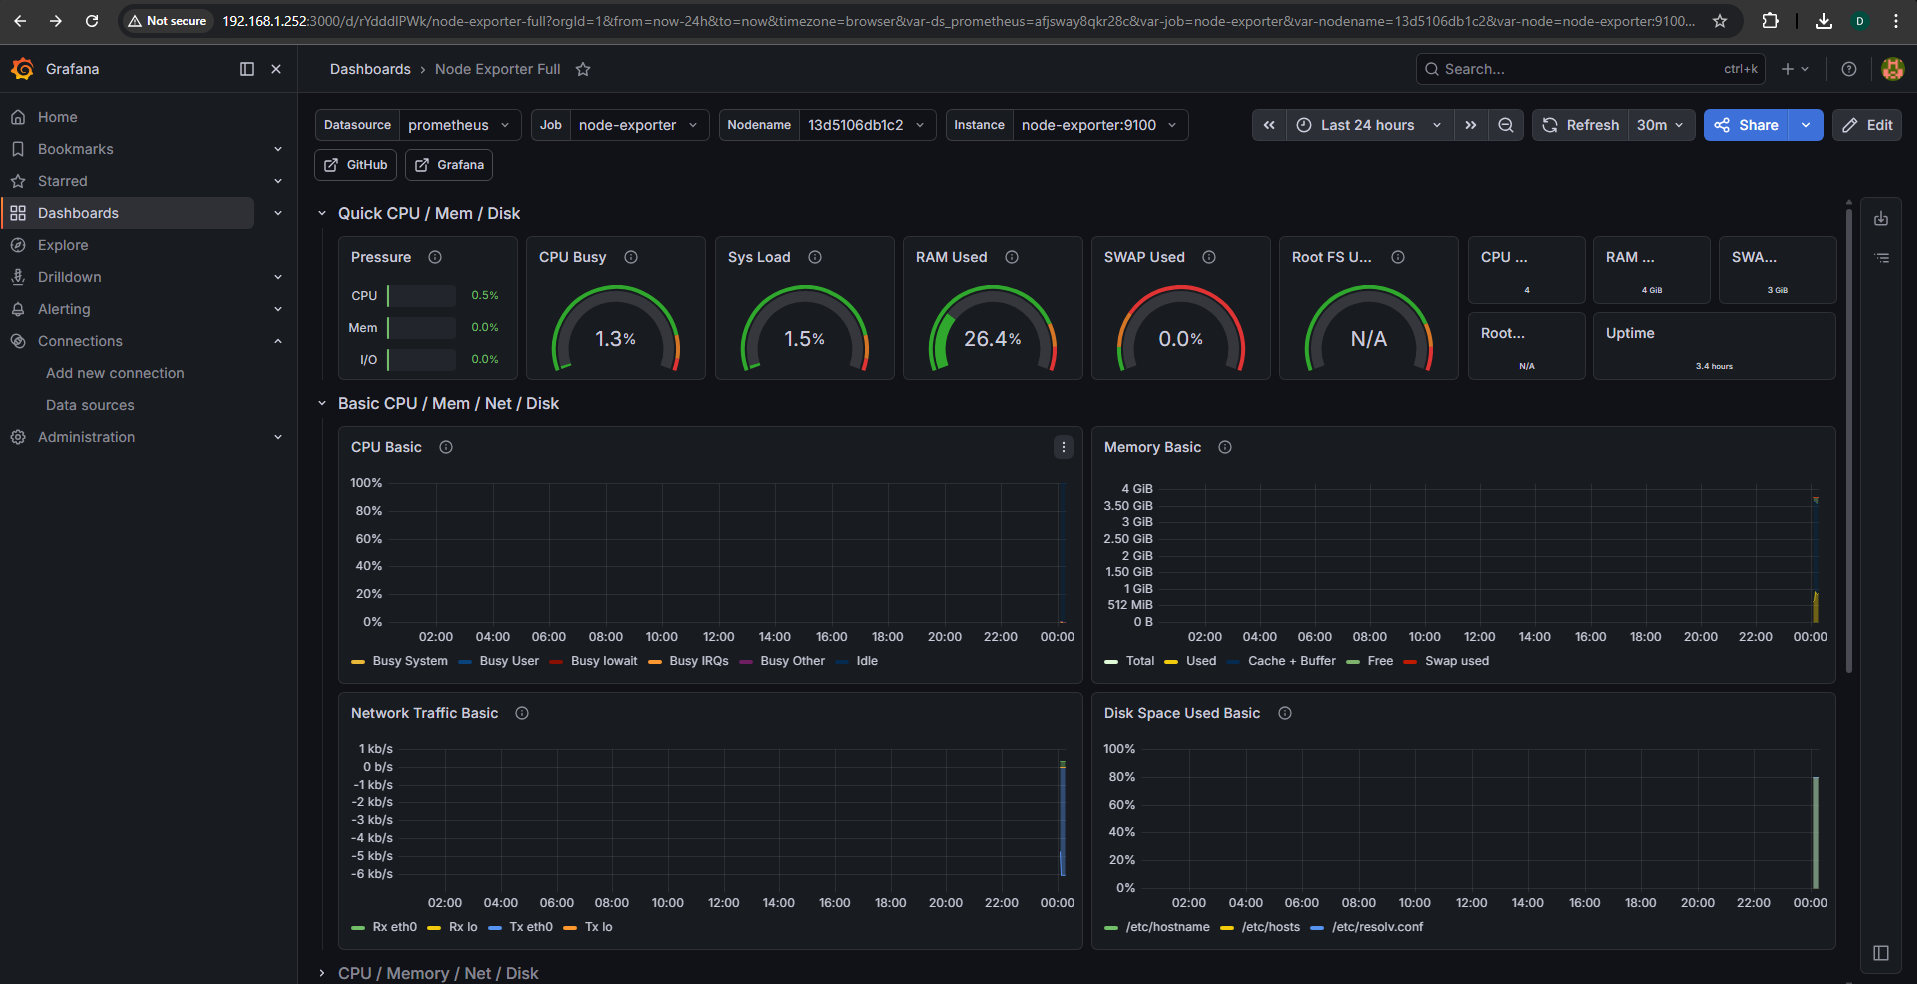
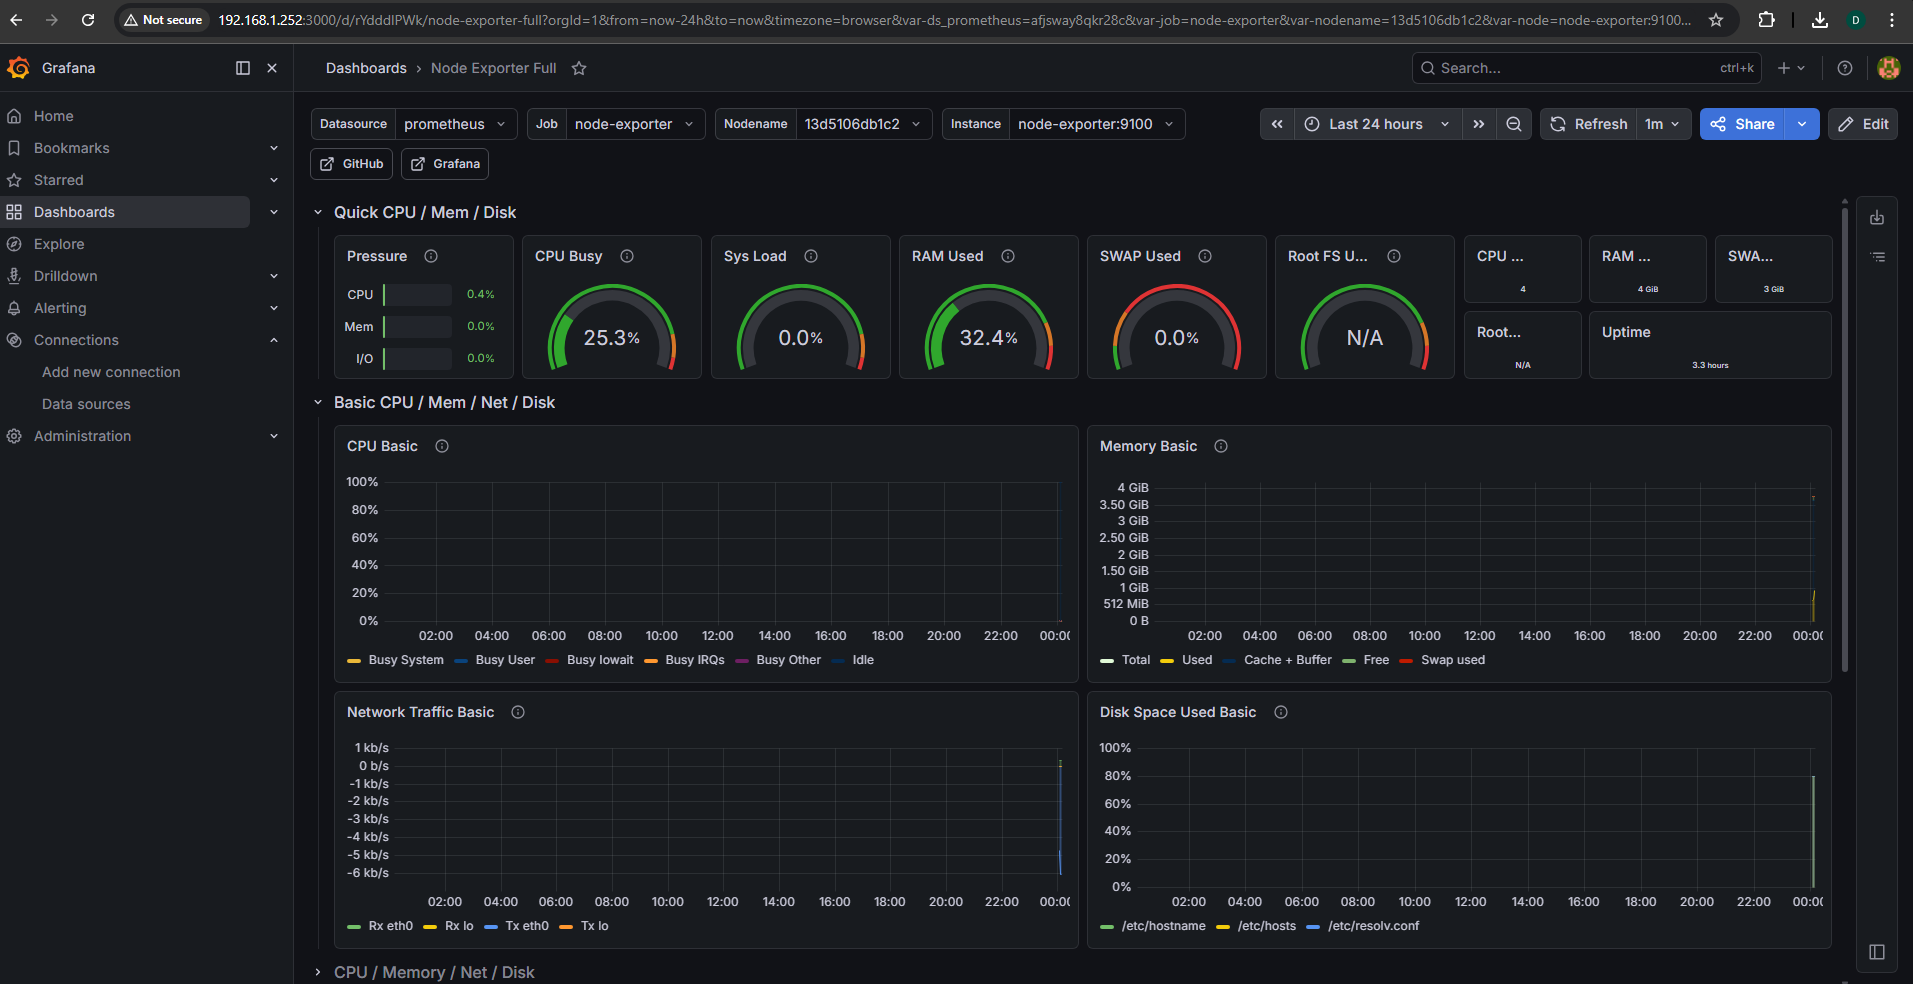
docs: expansão do relatório técnico - imagens e texto

diff --git a/relatorio/chapters/cap03.tex b/relatorio/chapters/cap03.tex
@@ -5,7 +5,23 @@ Com base no guião do projeto proposto, o objetivo central consiste na criação
 
 \section{Serviços de Rede a Disponibilizar}
 
-A infraestrutura deve contemplar um conjunto de serviços típicos de uma rede de pequena/média dimensão. A Tabela \ref{tab:servicos} apresenta os serviços a implementar, a ferramenta escolhida para cada um e a justificação técnica da escolha.
+A infraestrutura deve contemplar um conjunto de serviços típicos de uma rede de pequena/média dimensão.
+
+De forma mais detalhada, os requisitos funcionais de cada serviço são os seguintes:
+
+\begin{itemize}
+    \item \textbf{Servidor DNS:} Resolução de nomes para os hosts e serviços da rede interna; funcionamento em modo recursivo (reencaminhamento para servidores \textit{upstream} públicos para domínios externos); interface de administração acessível por HTTP.
+
+    \item \textbf{\textit{Reverse Proxy} HTTPS:} Ponto de entrada único na rede; encaminhamento de pedidos HTTP/HTTPS para os serviços internos corretos com base no nome de domínio ou no caminho do pedido; terminação TLS centralizada.
+
+    \item \textbf{Servidor Web:} Disponibilização de uma página de estado da infraestrutura, servida através do Nginx com conteúdo injetado por volume Docker.
+
+    \item \textbf{VPN (WireGuard):} Acesso remoto seguro à rede interna de \textit{containers} a partir de dispositivos externos (computador portátil e telemóvel); criação automática de perfis de cliente (QR codes para configuração no telemóvel).
+
+    \item \textbf{Monitorização:} Recolha contínua de métricas de \textit{hardware} do servidor \textit{host} (CPU, RAM, I/O de disco, interfaces de rede); armazenamento em base de dados de séries temporais; visualização em painéis interativos.
+\end{itemize}
+
+A Tabela \ref{tab:servicos} apresenta os serviços a implementar, a ferramenta escolhida para cada um e a justificação técnica da escolha.
 
 \begin{table}[h!]
 \centering
@@ -30,20 +46,6 @@ Visualização & Grafana & Compatibilidade nativa com Prometheus; painéis pré-
 \end{tabulary}
 \end{table}
 
-De forma mais detalhada, os requisitos funcionais de cada serviço são os seguintes:
-
-\begin{itemize}
-    \item \textbf{Servidor DNS:} Resolução de nomes para os hosts e serviços da rede interna; funcionamento em modo recursivo (reencaminhamento para servidores \textit{upstream} públicos para domínios externos); interface de administração acessível por HTTP.
-
-    \item \textbf{\textit{Reverse Proxy} HTTPS:} Ponto de entrada único na rede; encaminhamento de pedidos HTTP/HTTPS para os serviços internos corretos com base no nome de domínio ou no caminho do pedido; terminação TLS centralizada.
-
-    \item \textbf{Servidor Web:} Disponibilização de uma página de estado da infraestrutura, servida através do Nginx com conteúdo injetado por volume Docker.
-
-    \item \textbf{VPN (WireGuard):} Acesso remoto seguro à rede interna de \textit{containers} a partir de dispositivos externos (computador portátil e telemóvel); criação automática de perfis de cliente (QR codes para configuração no telemóvel).
-
-    \item \textbf{Monitorização:} Recolha contínua de métricas de \textit{hardware} do servidor \textit{host} (CPU, RAM, I/O de disco, interfaces de rede); armazenamento em base de dados de séries temporais; visualização em painéis interativos.
-\end{itemize}
-
 \section{Requisitos Técnicos e de Arquitetura}
 
 Para além do correto funcionamento dos serviços, a plataforma tem de respeitar rigorosos critérios de implementação e gestão, tal como estabelecido no guião do projeto.
@@ -63,14 +65,14 @@ Para além do correto funcionamento dos serviços, a plataforma tem de respeitar
 Para suportar a plataforma e garantir o isolamento do \textit{host} físico, a infraestrutura base foi implementada em ambiente virtualizado.
 
 \begin{itemize}
-    \item \textbf{Virtualização (VMware Workstation):} A plataforma escolhida para o \textit{hypervisor} local é o VMware Workstation \cite{vmware_workstation}. Esta escolha justifica-se pela sua estabilidade, pela excelente gestão de redes virtuais (modos \textit{Bridged} e NAT) necessárias para simular tráfego externo/interno, e pela eficiência na alocação de recursos. O modo \textit{Bridged} foi o selecionado para este projeto, pois permite que a VM obtenha um endereço IP diretamente na rede física local, sendo acessível por todos os dispositivos da rede como se fosse uma máquina física real --- comportamento essencial para o funcionamento correto do DNS e da VPN.
+    \item \textbf{Virtualização (VMware Workstation):} A plataforma escolhida para o \textit{hypervisor} local é o VMware Workstation \cite{vmware_workstation}. Esta escolha justifica-se pela sua estabilidade, pela excelente gestão de redes virtuais (modos \textit{Bridged} e NAT) necessárias para simular tráfego externo/interno, e pela eficiência na alocação de recursos. O modo \textit{Bridged} foi o selecionado para este projeto, pois permite que a VM obtenha um endereço IP diretamente na rede física local, sendo acessível por todos os dispositivos da rede como se fosse uma máquina física real que é o comportamento essencial para o funcionamento correto do DNS e da VPN.
 
     \item \textbf{Sistema Operativo (\textit{Guest OS}):} Para o sistema operativo que aloja os \textit{containers}, optou-se pelo \textbf{Ubuntu Server 24.04 LTS} \cite{ubuntu_server}. Esta distribuição foi selecionada por possuir suporte de longo prazo (até 2029), excelente compatibilidade nativa com Docker e Ansible, e por não incluir interface gráfica (\textit{headless}), minimizando a superfície de ataque e o consumo de recursos da VM.
 \end{itemize}
 
 \subsection{Configuração de Rede do Servidor}
 
-A configuração de rede do Ubuntu Server 24.04 é gerida pelo \textbf{Netplan} \cite{netplan_docs}, um sistema de configuração de rede declarativo que gera configurações para o \textit{backend} \texttt{networkd} ou \texttt{NetworkManager}. Para garantir que o servidor mantém sempre o mesmo endereço IP --- condição essencial para o correto funcionamento do DNS e da VPN ---, optou-se por configurar um IP estático (\texttt{192.168.1.252}) em vez de depender de DHCP.
+A configuração de rede do Ubuntu Server 24.04 é gerida pelo \textbf{Netplan} \cite{netplan_docs}, um sistema de configuração de rede declarativo que gera configurações para o \textit{backend} \texttt{networkd} ou \texttt{NetworkManager}. Para garantir que o servidor mantém sempre o mesmo endereço IP que é condição essencial para o correto funcionamento do DNS e da VPN, optou-se por configurar um IP estático (\texttt{192.168.1.252}) em vez de depender de DHCP.
 
 A configuração da rede é definida em \texttt{/etc/netplan/00-installer-config.yaml} e, após validação com \texttt{netplan try}, aplicada com \texttt{netplan apply}. O Capítulo \ref{chap:implementacao} detalha os erros encontrados durante este processo e as soluções aplicadas.
 

diff --git a/relatorio/chapters/cap06.tex b/relatorio/chapters/cap06.tex
@@ -5,19 +5,19 @@
 
 Este projeto teve como objetivo central demonstrar que é possível gerir uma infraestrutura de serviços de rede de forma totalmente automatizada, reprodutível e segura, utilizando exclusivamente ferramentas \textit{open source}. O resultado final é uma plataforma funcional que corre numa máquina virtual Ubuntu Server 24.04 LTS, orquestrando múltiplos serviços em \textit{containers} Docker: um servidor DNS (Pi-hole), um servidor Web e \textit{reverse proxy} (Nginx), uma VPN (WireGuard) e uma \textit{stack} de observabilidade (Prometheus, Node Exporter e Grafana).
 
-Do ponto de vista técnico, o projeto atingiu os seus objetivos principais. A infraestrutura é definida integralmente em código (ficheiros YAML do Docker Compose e \textit{Playbooks} Ansible), versionada no GitLab e implantada automaticamente a cada \textit{commit} pela \textit{pipeline} de CI/CD. Qualquer falha catastrófica no servidor poderia ser recuperada em poucos minutos, bastando provisionar uma nova VM e executar os \textit{Playbooks} Ansible --- uma garantia que, em infraestruturas geridas manualmente, simplesmente não existe.
+Do ponto de vista técnico, o projeto atingiu os seus objetivos principais. A infraestrutura é definida integralmente em código (ficheiros YAML do Docker Compose e \textit{Playbooks} Ansible), versionada no GitLab e implantada automaticamente a cada \textit{commit} pela \textit{pipeline} de CI/CD. Qualquer falha catastrófica no servidor poderia ser recuperada em poucos minutos, bastando provisionar uma nova VM e executar os \textit{Playbooks} Ansible, uma garantia que, em infraestruturas geridas manualmente, simplesmente não existe.
 
 \section{Aprendizagens e Contribuições}
 
-O processo de implementação revelou que os maiores desafios técnicos raramente surgem da configuração dos serviços em si, mas sim das interações entre camadas distintas da infraestrutura. Os três problemas mais significativos --- o \textit{bridging} incorreto do VMware (Secção \ref{sec:vmware_bridging}), os erros de indentação YAML no Netplan (Secção \ref{sec:netplan}) e o bloqueio do tráfego WireGuard pelo \textit{router} (Secção \ref{sec:wireguard_debug}) --- ilustram bem esta realidade: cada um exigiu um raciocínio estruturado de diagnóstico em camadas, eliminando hipóteses uma a uma até identificar a causa raiz.
+O processo de implementação revelou que os maiores desafios técnicos raramente surgem da configuração dos serviços em si, mas sim das interações entre camadas distintas da infraestrutura. Os três problemas mais significativos: o \textit{bridging} incorreto do VMware (Secção \ref{sec:vmware_bridging}), os erros de indentação YAML no Netplan (Secção \ref{sec:netplan}) e o bloqueio do tráfego WireGuard pelo \textit{router} (Secção \ref{sec:wireguard_debug}) ilustram bem esta realidade: cada um exigiu um raciocínio estruturado de diagnóstico em camadas, eliminando hipóteses uma a uma até identificar a causa raiz.
 
-A utilização do \texttt{tcpdump} para diagnosticar o problema do WireGuard foi particularmente elucidativa: ao constatar que zero pacotes chegavam à interface de rede do servidor, foi possível descartar imediatamente qualquer problema na configuração do \textit{container} ou do protocolo, e focar o diagnóstico na camada de rede externa (o \textit{router}). Esta abordagem metódica --- observar antes de agir --- é um princípio fundamental da administração de sistemas que este projeto ajudou a consolidar.
+A utilização do \texttt{tcpdump} para diagnosticar o problema do WireGuard foi particularmente elucidativa: ao constatar que zero pacotes chegavam à interface de rede do servidor, foi possível descartar imediatamente qualquer problema na configuração do \textit{container} ou do protocolo, e focar o diagnóstico na camada de rede externa (o \textit{router}). Esta abordagem metódica (observar antes de agir) é um princípio fundamental da administração de sistemas que este projeto ajudou a consolidar.
 
 A integração do Ansible com a \textit{pipeline} GitLab CI/CD demonstrou, de forma prática, como a filosofia de \textit{Infrastructure as Code} elimina a dicotomia entre o que está documentado e o que está realmente instalado \cite{morris2016infrastructure}. O repositório Git é, simultaneamente, a documentação e o estado real da infraestrutura.
 
 \section{Comparação com Trabalhos Relacionados}
 
-A abordagem adotada neste projeto partilha a filosofia de orquestração leve com outras soluções documentadas na literatura e na comunidade técnica. Em comparação com arquiteturas baseadas em Kubernetes \cite{docker_docs}, a solução Docker Compose apresenta menor complexidade operacional e é mais adequada para ambientes de pequena escala, como o laboratório académico. Para contextos com dezenas ou centenas de serviços e requisitos de \textit{auto-scaling}, o Kubernetes seria a escolha natural --- mas introduz uma curva de aprendizagem e uma sobrecarga de gestão que não se justificam neste cenário.
+A abordagem adotada neste projeto partilha a filosofia de orquestração leve com outras soluções documentadas na literatura e na comunidade técnica. Em comparação com arquiteturas baseadas em Kubernetes \cite{docker_docs}, a solução Docker Compose apresenta menor complexidade operacional e é mais adequada para ambientes de pequena escala, como o laboratório académico. Para contextos com dezenas ou centenas de serviços e requisitos de \textit{auto-scaling}, o Kubernetes seria a escolha natural mas introduz uma curva de aprendizagem e uma sobrecarga de gestão que não se justificam neste cenário.
 
 A escolha do WireGuard em detrimento do OpenVPN, fundamentada nas propriedades criptográficas e na reduzida base de código apresentadas por Donenfeld \cite{donenfeld2017wireguard}, revelou-se acertada: a configuração foi significativamente mais simples e o desempenho do túnel visivelmente superior em testes subjetivos de latência.
 
@@ -43,4 +43,4 @@ Com base na análise crítica dos resultados apresentada no Capítulo \ref{cap:t
 
 \section{Considerações Finais}
 
-Este projeto demonstrou que a gestão profissional de infraestruturas de rede já não é exclusiva de grandes organizações com equipas dedicadas. As ferramentas \textit{open source} disponíveis atualmente --- Docker, Ansible, GitLab, Prometheus, WireGuard --- são suficientemente maduras e bem documentadas para permitir que um único administrador de sistemas, com os conhecimentos técnicos adequados, construa e opere uma plataforma de serviços de rede robusta, segura e totalmente automatizada. O principal obstáculo não é tecnológico, mas metodológico: adotar desde o início a disciplina de versionamento, configuração declarativa e documentação sistemática dos problemas encontrados.
+Este projeto demonstrou que a gestão profissional de infraestruturas de rede já não é exclusiva de grandes organizações com equipas dedicadas. As ferramentas \textit{open source} disponíveis atualmente: Docker, Ansible, GitLab, Prometheus, WireGuard são suficientemente maduras e bem documentadas para permitir que um único administrador de sistemas, com os conhecimentos técnicos adequados, construa e opere uma plataforma de serviços de rede robusta, segura e totalmente automatizada. O principal obstáculo não é tecnológico, mas metodológico: adotar desde o início a disciplina de versionamento, configuração declarativa e documentação sistemática dos problemas encontrados.

diff --git a/relatorio/chapters/cap02.tex b/relatorio/chapters/cap02.tex
@@ -40,13 +40,13 @@ Segurança de isolamento & Elevada (separação de \textit{kernel}) & Moderada (
 
 O Docker, lançado em 2013, democratizou o uso de \textit{containers} ao fornecer uma interface de linha de comandos acessível e um ecossistema de imagens públicas (Docker Hub) \cite{docker_docs, containers_ibm}. A sua adoção generalizada é bem ilustrada pela vasta quantidade de recursos tutoriais disponíveis, desde guias técnicos especializados \cite{docker_digitalocean} a conteúdo de divulgação \cite{docker_youtube_fireship}. Um \textit{container} Docker é instanciado a partir de uma \textit{image}, que por sua vez é construída de forma declarativa através de um ficheiro \texttt{Dockerfile}.
 
-Para ambientes com múltiplos serviços interdependentes --- como o deste projeto, onde o DNS, o \textit{proxy} e a monitorização precisam de comunicar entre si ---, o Docker Compose permite definir toda a topologia de \textit{containers} num único ficheiro YAML (\texttt{docker-compose.yml}) \cite{docker_compose_docs, docker_compose_tutorial}. Cada serviço é descrito com a sua imagem, portas expostas, variáveis de ambiente, volumes e redes, garantindo que a infraestrutura pode ser recriada com um único comando (\texttt{docker compose up -d}).
+Para ambientes com múltiplos serviços interdependentes como o deste projeto, onde o DNS, o \textit{proxy} e a monitorização precisam de comunicar entre si, o Docker Compose permite definir toda a topologia de \textit{containers} num único ficheiro YAML (\texttt{docker-compose.yml}) \cite{docker_compose_docs, docker_compose_tutorial}. Cada serviço é descrito com a sua imagem, portas expostas, variáveis de ambiente, volumes e redes, garantindo que a infraestrutura pode ser recriada com um único comando (\texttt{docker compose up -d}).
 
 Do ponto de vista de segurança, a documentação oficial do Docker recomenda um conjunto de boas práticas que foram aplicadas neste projeto: execução de \textit{containers} com utilizadores sem privilégios de \textit{root}, montagem de volumes em modo \textit{read-only} sempre que possível, e isolamento de serviços em redes internas sem exposição desnecessária de portas ao exterior \cite{docker_security, nist_containers}.
 
 \subsection{Podman como Alternativa \textit{Rootless}}
 
-Paralelamente ao Docker, o Podman tem emergido como uma alternativa com características de segurança superiores em determinados cenários. A sua arquitetura \textit{daemonless} --- não exige um processo \textit{daemon} com privilégios de \textit{root} em execução permanente --- reduz a superfície de ataque do sistema \cite{podman_docs}. O Podman suporta a execução de \textit{containers} no contexto de um utilizador sem privilégios (\textit{rootless containers}), o que significa que mesmo que o processo do \textit{container} seja comprometido, o atacante não herda privilégios de administrador no \textit{host}.
+Paralelamente ao Docker, o Podman tem emergido como uma alternativa com características de segurança superiores em determinados cenários. A sua arquitetura \textit{daemonless} não exige um processo \textit{daemon} com privilégios de \textit{root} em execução permanente reduz a superfície de ataque do sistema \cite{podman_docs}. O Podman suporta a execução de \textit{containers} no contexto de um utilizador sem privilégios (\textit{rootless containers}), o que significa que mesmo que o processo do \textit{container} seja comprometido, o atacante não herda privilégios de administrador no \textit{host}.
 
 Para este projeto, optou-se pelo Docker em detrimento do Podman, principalmente pela sua maturidade na integração com o Docker Compose V2 e pela compatibilidade com as imagens utilizadas (Pi-hole, WireGuard com \texttt{cap\_add}). Contudo, reconhece-se que para ambientes de produção de alta segurança, o Podman com \textit{rootless} seria a escolha mais indicada.
 
@@ -83,7 +83,7 @@ Em arquiteturas modernas baseadas em \textit{containers}, a monitorização trad
 Os três pilares da observabilidade são as métricas, os \textit{logs} e os \textit{traces} \cite{beyer2016sre, prometheus_youtube}. Este projeto aborda os dois primeiros:
 
 \begin{itemize}
-    \item \textbf{Métricas (Prometheus + Node Exporter):} O Prometheus \cite{prometheus_docs} é uma base de dados de séries temporais desenhada especificamente para a recolha de métricas de sistemas distribuídos. O seu modelo de \textit{pull} --- o Prometheus interroga ativamente os \textit{targets} em intervalos regulares --- simplifica a arquitetura e permite detetar facilmente quando um serviço fica inacessível. O Node Exporter \cite{node_exporter} é um agente leve que expõe métricas de \textit{hardware} do sistema operativo (utilização de CPU, memória, I/O de disco, interfaces de rede) num formato compreensível pelo Prometheus.
+    \item \textbf{Métricas (Prometheus + Node Exporter):} O Prometheus \cite{prometheus_docs} é uma base de dados de séries temporais desenhada especificamente para a recolha de métricas de sistemas distribuídos. O seu modelo de \textit{pull} (o Prometheus interroga ativamente os \textit{targets} em intervalos regulares) simplifica a arquitetura e permite detetar facilmente quando um serviço fica inacessível. O Node Exporter \cite{node_exporter} é um agente leve que expõe métricas de \textit{hardware} do sistema operativo (utilização de CPU, memória, I/O de disco, interfaces de rede) num formato compreensível pelo Prometheus.
 
     \item \textbf{Visualização (Grafana):} O Grafana \cite{grafana_docs} é uma plataforma de visualização de dados que se conecta ao Prometheus como fonte de dados e permite construir painéis interativos com gráficos de séries temporais, indicadores de estado e alertas.
 \end{itemize}